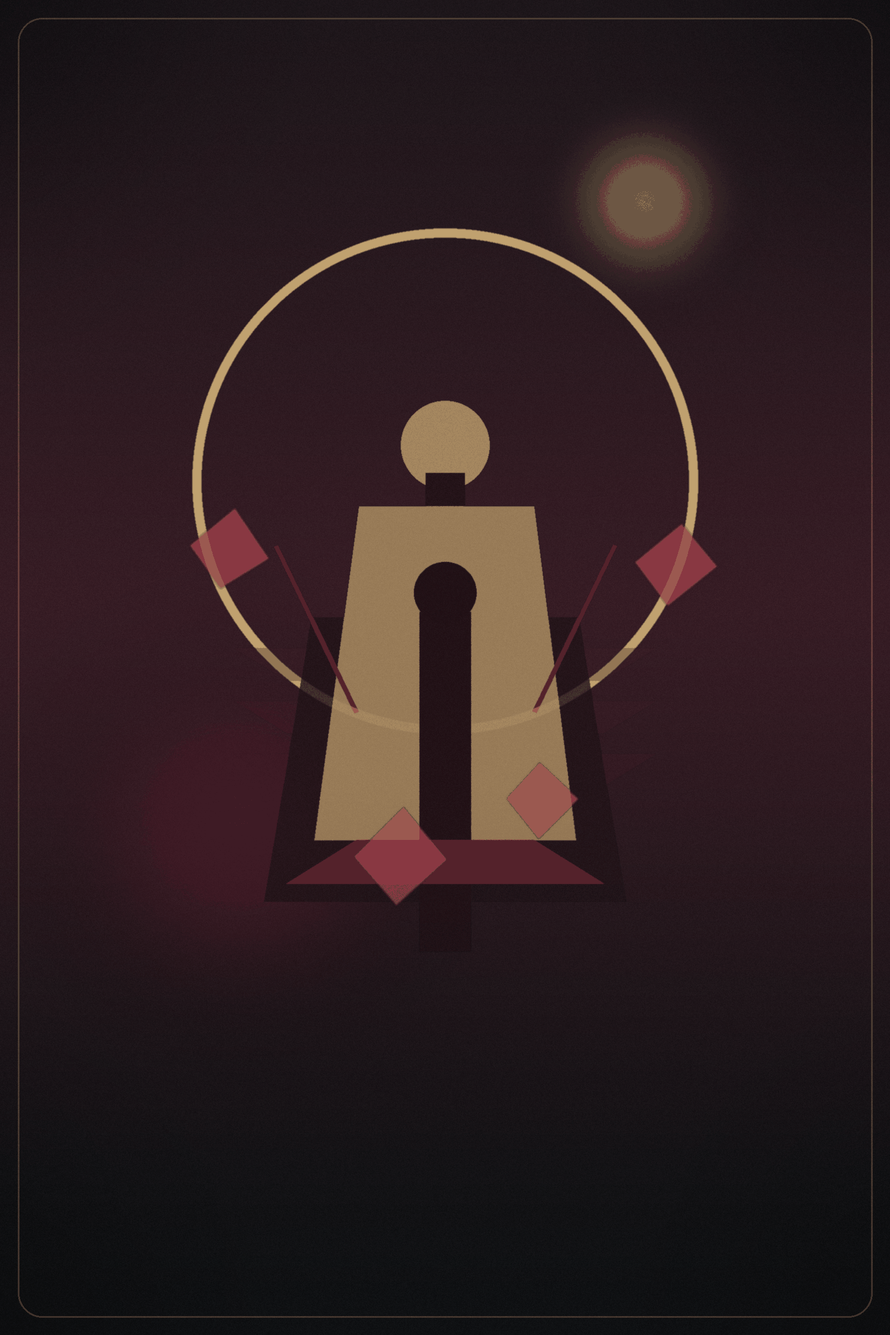
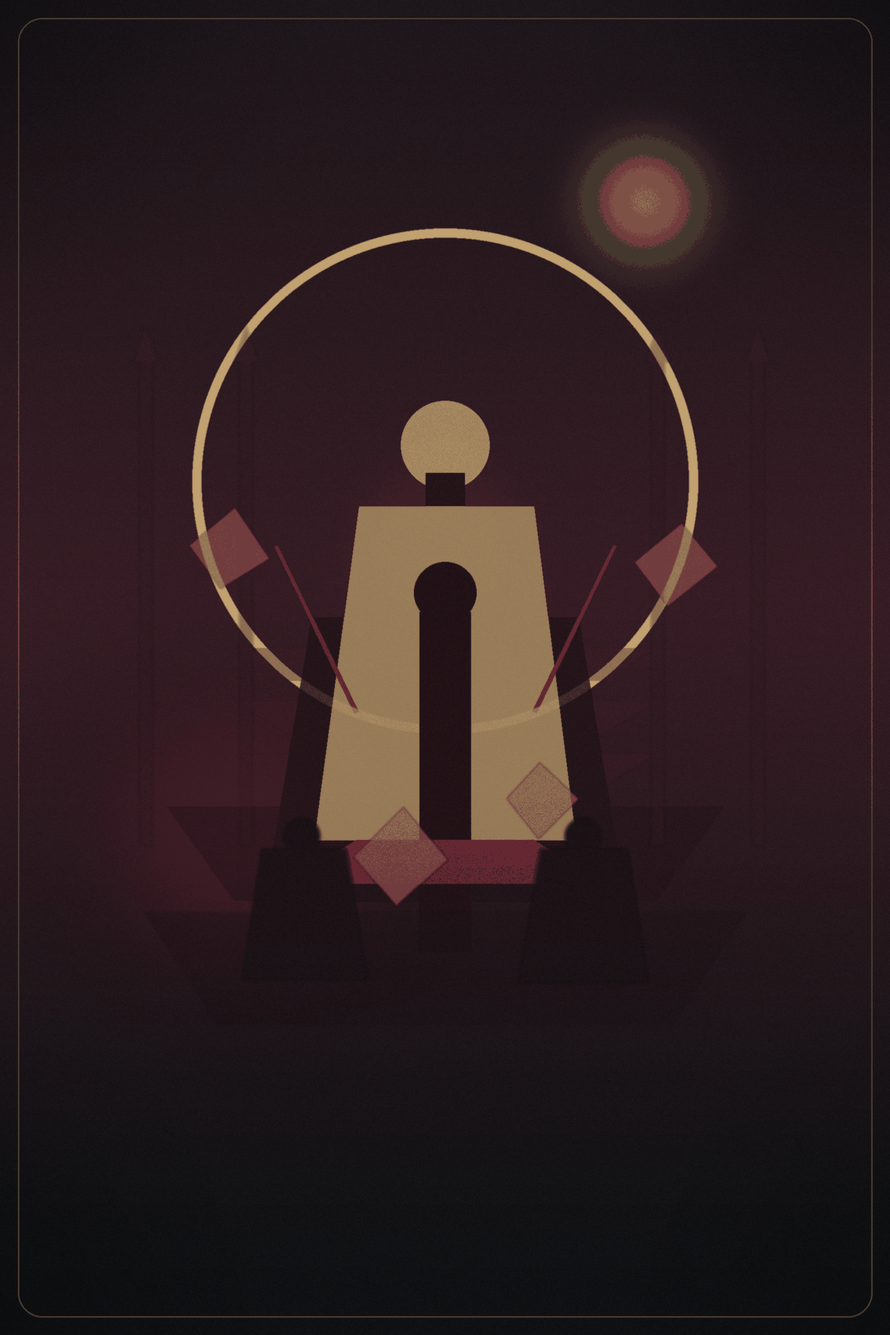
feat: refine story covers and prepare v0.1.1 release

diff --git a/tooling/branding/generate_story_posters.py b/tooling/branding/generate_story_posters.py
@@ -288,12 +288,14 @@ def make_oath_arbiter() -> Image.Image:
     ]).convert('RGBA')
     add_glow(base, (1160, 360), 135, '#ddb57f', 145)
     add_glow(base, (430, 1510), 280, '#7a1830', 95)
+    add_glow(base, (790, 980), 180, '#a43a4c', 52)
 
     ring = blurred_shape(lambda d: d.ellipse((345, 410, 1255, 1320), outline=(199, 165, 110, 255), width=18), blur=1.0)
     alpha_composite(base, ring)
 
     tribunal = Image.new('RGBA', (W, H), (0, 0, 0, 0))
     draw = ImageDraw.Draw(tribunal)
+    draw.polygon([(300, 1450), (1300, 1450), (1180, 1618), (420, 1618)], fill=(28, 10, 14, 140))
     for y in (1165, 1260, 1355):
         draw.polygon([(420, y), (1180, y), (1085, y + 58), (515, y + 58)], fill=(56, 18, 26, 95))
     draw.polygon([(560, 1110), (1040, 1110), (1125, 1620), (475, 1620)], fill=(25, 10, 14, 210))
@@ -306,6 +308,22 @@ def make_oath_arbiter() -> Image.Image:
     draw.line((495, 980, 640, 1280), fill=(114, 33, 45, 140), width=8)
     draw.line((1105, 980, 960, 1280), fill=(114, 33, 45, 140), width=8)
     alpha_composite(base, tribunal.filter(ImageFilter.GaussianBlur(0.7)))
+
+    hall = Image.new('RGBA', (W, H), (0, 0, 0, 0))
+    draw = ImageDraw.Draw(hall)
+    for x in (250, 430, 1170, 1350):
+        draw.rectangle((x, 620, x + 24, 1520), fill=(40, 16, 22, 100))
+        draw.polygon([(x - 10, 650), (x + 12, 585), (x + 34, 650)], fill=(52, 22, 28, 88))
+    draw.polygon([(260, 1640), (1340, 1640), (1210, 1840), (390, 1840)], fill=(21, 8, 12, 110))
+    alpha_composite(base, hall.filter(ImageFilter.GaussianBlur(2.4)))
+
+    supplicants = blurred_shape(lambda d: (
+        d.ellipse((510, 1470, 575, 1535), fill=(18, 8, 12, 255)),
+        d.polygon([(470, 1526), (622, 1526), (660, 1760), (435, 1760)], fill=(21, 9, 13, 255)),
+        d.ellipse((1015, 1470, 1080, 1535), fill=(18, 8, 12, 255)),
+        d.polygon([(972, 1526), (1128, 1526), (1165, 1765), (932, 1765)], fill=(21, 9, 13, 255)),
+    ), blur=2.8)
+    alpha_composite(base, supplicants)
 
     petals = Image.new('RGBA', (W, H), (0, 0, 0, 0))
     draw = ImageDraw.Draw(petals)
@@ -411,6 +429,7 @@ def make_memory_smuggler() -> Image.Image:
     ]).convert('RGBA')
     add_glow(base, (1195, 325), 170, '#32b9c1', 150)
     add_glow(base, (360, 1500), 240, '#a13f81', 120)
+    add_glow(base, (790, 1300), 160, '#1f7a84', 45)
 
     skyline = Image.new('RGBA', (W, H), (0, 0, 0, 0))
     draw = ImageDraw.Draw(skyline)
@@ -430,6 +449,14 @@ def make_memory_smuggler() -> Image.Image:
     draw.rounded_rectangle((420, 700, 1195, 1515), radius=58, outline=(59, 205, 205, 210), width=12)
     alpha_composite(base, grid.filter(ImageFilter.GaussianBlur(0.9)))
 
+    catwalk = Image.new('RGBA', (W, H), (0, 0, 0, 0))
+    draw = ImageDraw.Draw(catwalk)
+    draw.polygon([(210, 1605), (1370, 1605), (1265, 1718), (315, 1718)], fill=(13, 20, 29, 170))
+    for x in range(320, 1230, 82):
+        draw.line((x, 1615, x - 58, 1710), fill=(47, 123, 130, 48), width=4)
+    draw.rectangle((735, 1290, 865, 1612), fill=(16, 24, 35, 120))
+    alpha_composite(base, catwalk.filter(ImageFilter.GaussianBlur(1.4)))
+
     case = Image.new('RGBA', (W, H), (0, 0, 0, 0))
     draw = ImageDraw.Draw(case)
     draw.rounded_rectangle((540, 870, 1060, 1265), radius=38, fill=(9, 16, 24, 235), outline=(56, 204, 204, 110), width=6)
@@ -448,6 +475,19 @@ def make_memory_smuggler() -> Image.Image:
     for y in range(760, 1500, 95):
         draw.rectangle((120, y, 490, y + 10), fill=(67, 46, 94, 75))
     alpha_composite(base, scan.filter(ImageFilter.GaussianBlur(1.4)))
+
+    courier = blurred_shape(lambda d: (
+        d.ellipse((1018, 1188, 1092, 1262), fill=(8, 12, 17, 255)),
+        d.polygon([(986, 1258), (1128, 1258), (1176, 1588), (950, 1588)], fill=(10, 15, 21, 255)),
+        d.rectangle((900, 1348, 1010, 1498), fill=(10, 16, 23, 230)),
+        d.line((902, 1365, 1006, 1486), fill=(62, 189, 192, 90), width=5),
+    ), blur=2.2)
+    alpha_composite(base, courier)
+
+    skyline_reflect = Image.new('RGBA', (W, H), (0, 0, 0, 0))
+    draw = ImageDraw.Draw(skyline_reflect)
+    draw.ellipse((220, 1655, 1380, 1890), fill=(50, 168, 173, 16))
+    alpha_composite(base, skyline_reflect.filter(ImageFilter.GaussianBlur(28)))
 
     add_bottom_fade(base, 0.59)
     add_vignette(base)
@@ -661,6 +701,7 @@ def make_dungeon_arbiter() -> Image.Image:
     ]).convert('RGBA')
     add_glow(base, (1160, 360), 130, '#c49858', 135)
     add_glow(base, (435, 1440), 250, '#611723', 110)
+    add_glow(base, (800, 1260), 180, '#9b6b3f', 42)
 
     maze = Image.new('RGBA', (W, H), (0, 0, 0, 0))
     draw = ImageDraw.Draw(maze)
@@ -680,12 +721,41 @@ def make_dungeon_arbiter() -> Image.Image:
     draw.rectangle((756, 1360, 844, 1700), fill=(17, 12, 14, 240))
     alpha_composite(base, gate.filter(ImageFilter.GaussianBlur(0.6)))
 
+    stairs = Image.new('RGBA', (W, H), (0, 0, 0, 0))
+    draw = ImageDraw.Draw(stairs)
+    for top in (1545, 1610, 1675, 1740):
+        draw.polygon([(385, top), (1215, top), (1135, top + 42), (465, top + 42)], fill=(15, 16, 21, 150))
+    draw.polygon([(325, 1788), (1275, 1788), (1140, 1940), (460, 1940)], fill=(12, 12, 17, 130))
+    alpha_composite(base, stairs.filter(ImageFilter.GaussianBlur(1.4)))
+
     torches = Image.new('RGBA', (W, H), (0, 0, 0, 0))
     draw = ImageDraw.Draw(torches)
     for x in (500, 1100):
         draw.rectangle((x, 1060, x + 20, 1260), fill=(28, 18, 16, 220))
         draw.polygon([(x - 22, 1058), (x + 10, 1002), (x + 42, 1058)], fill=(206, 124, 59, 180))
     alpha_composite(base, torches.filter(ImageFilter.GaussianBlur(2.0)))
+
+    prisoner = blurred_shape(lambda d: (
+        d.ellipse((760, 1385, 842, 1465), fill=(10, 11, 14, 255)),
+        d.polygon([(715, 1462), (888, 1462), (928, 1765), (682, 1765)], fill=(12, 12, 16, 255)),
+        d.line((726, 1540, 650, 1460), fill=(120, 98, 76, 105), width=7),
+        d.line((876, 1540, 948, 1462), fill=(120, 98, 76, 105), width=7),
+    ), blur=2.1)
+    alpha_composite(base, prisoner)
+
+    chains = Image.new('RGBA', (W, H), (0, 0, 0, 0))
+    draw = ImageDraw.Draw(chains)
+    for points in [
+        (668, 1470, 562, 1368),
+        (928, 1470, 1038, 1366),
+    ]:
+        x1, y1, x2, y2 = points
+        for step in range(6):
+            t = step / 5
+            x = int(x1 + (x2 - x1) * t)
+            y = int(y1 + (y2 - y1) * t)
+            draw.ellipse((x - 18, y - 11, x + 18, y + 11), outline=(126, 103, 83, 84), width=3)
+    alpha_composite(base, chains.filter(ImageFilter.GaussianBlur(1.0)))
 
     add_bottom_fade(base, 0.60)
     add_vignette(base)

diff --git a/README.zh-CN.md b/README.zh-CN.md
@@ -13,9 +13,9 @@
 </p>
 
 <p align="center">
-  <a href="https://github.com/wimi321/aura/releases/download/v0.1.0/Aura-android-arm64-v0.1.0.apk"><strong>下载 APK</strong></a>
+  <a href="https://github.com/wimi321/aura/releases/download/v0.1.1/Aura-android-arm64-v0.1.1.apk"><strong>下载 APK</strong></a>
   ·
-  <a href="https://github.com/wimi321/aura/releases/tag/v0.1.0"><strong>最新版本</strong></a>
+  <a href="https://github.com/wimi321/aura/releases/tag/v0.1.1"><strong>最新版本</strong></a>
   ·
   <a href="README.md"><strong>English</strong></a>
 </p>
@@ -119,7 +119,7 @@ Aura 走的是相反的路线：
 
 ### Android
 
-1. 去 [GitHub Releases](https://github.com/wimi321/aura/releases) 下载最新版，或者直接点这个 [APK 链接](https://github.com/wimi321/aura/releases/download/v0.1.0/Aura-android-arm64-v0.1.0.apk)。
+1. 去 [GitHub Releases](https://github.com/wimi321/aura/releases) 下载最新版，或者直接点这个 [APK 链接](https://github.com/wimi321/aura/releases/download/v0.1.1/Aura-android-arm64-v0.1.1.apk)。
 2. 打开 Aura。
 3. 在首启页选择 `Gemma 4 E2B` 或 `Gemma 4 E4B`。
 4. 等模型下载完成。
@@ -141,7 +141,7 @@ Aura 不再把完整大模型直接塞进 APK。
 
 当前公开 Android arm64 APK 体积：
 
-- 约 `100.5MB`
+- 约 `126.8MB`
 
 此前把模型一起打包时的大致体积：
 

diff --git a/README.md b/README.md
@@ -13,9 +13,9 @@
 </p>
 
 <p align="center">
-  <a href="https://github.com/wimi321/aura/releases/download/v0.1.0/Aura-android-arm64-v0.1.0.apk"><strong>Download APK</strong></a>
+  <a href="https://github.com/wimi321/aura/releases/download/v0.1.1/Aura-android-arm64-v0.1.1.apk"><strong>Download APK</strong></a>
   ·
-  <a href="https://github.com/wimi321/aura/releases/tag/v0.1.0"><strong>Latest Release</strong></a>
+  <a href="https://github.com/wimi321/aura/releases/tag/v0.1.1"><strong>Latest Release</strong></a>
   ·
   <a href="README.zh-CN.md"><strong>简体中文</strong></a>
 </p>
@@ -115,7 +115,7 @@ These are screenshots from a running Aura build, not concept mockups.
 
 ### Android
 
-1. Download the latest APK from [GitHub Releases](https://github.com/wimi321/aura/releases) or use the direct [APK link](https://github.com/wimi321/aura/releases/download/v0.1.0/Aura-android-arm64-v0.1.0.apk).
+1. Download the latest APK from [GitHub Releases](https://github.com/wimi321/aura/releases) or use the direct [APK link](https://github.com/wimi321/aura/releases/download/v0.1.1/Aura-android-arm64-v0.1.1.apk).
 2. Open Aura.
 3. Choose `Gemma 4 E2B` or `Gemma 4 E4B`.
 4. Wait for the download to finish.
@@ -137,7 +137,7 @@ That means:
 
 Current public Android arm64 APK:
 
-- about `100.5MB`
+- about `126.8MB`
 
 Earlier bundled-model direction:
 
